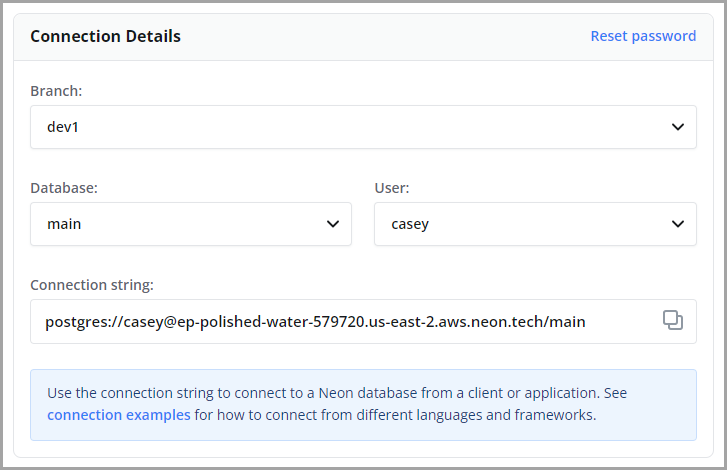
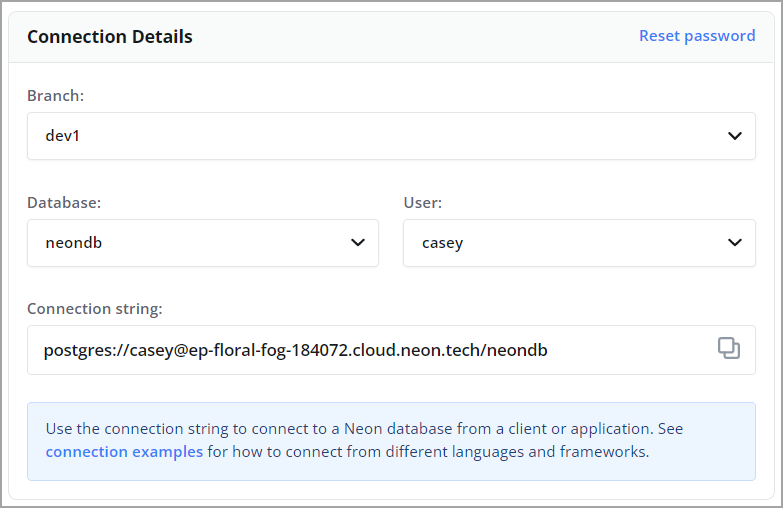
Revisions

diff --git a/content/docs/connect/connect-from-any-app.md b/content/docs/connect/connect-from-any-app.md
@@ -2,7 +2,7 @@
 title: Connect from any application
 enableTableOfContents: true
 ---
-When connecting to Neon from an application or client, you will need to connect to a database in your Neon project. In Neon, a database belongs to a branch, which may the root branch of your project (`main`) or a child branch.
+When connecting to Neon from an application or client, you will need to connect to a database in your Neon project. In Neon, a database belongs to a branch, which may the root branch of your project (`main`) or a child branch. The root branch in a Neon project has a default database named `neondb`.
 
 In order to connect to a database, you must connect to the branch where the database resides, and you must do so by connecting through an endpoint, which is the compute instance associated with the branch.
 
@@ -10,7 +10,7 @@ In order to connect to a database, you must connect to the branch where the data
 Project
     |----root branch (main) ---- endpoint (compute) <--- application/client
              |    |
-             |    |---- database (main)
+             |    |---- database (neondb)
              |
              ---- child branch ---- endpoint (compute) <--- application/client
                             |
@@ -21,16 +21,16 @@ You can obtain the connection details that you require from the **Connection Det
 
 ![Connection details widget](./images/connection_details.png)
 
-A Neon connection string includes the user, the endpoint hostname, and database name.
+A Neon connection string includes the user, the endpoint hostname, and the database name.
 
 ```text
-postgres://casey@ep-polished-water-579720.us-east-2.aws.neon.tech/neondb
-             ^                       ^                              ^
-             |- <user>               |- <endpoint_hostname>         |- <database>
+postgres://casey@ep-square-sea-260584.us-east-2.aws.neon.tech/neondb
+             ^                       ^                          ^
+             |- <user>               |- <endpoint_hostname>     |- <database>
 ```
 
 <Admonition type="note">
-When an application or client requires a PostgreSQL host, it is the endpoint hostname that you should provide. An endpoint hostname, such as the one shown above, is comprised of an `endpoint_id` (`ep-polished-water-579720`), a region slug (`us-east-2`), the cloud platform (`aws`), and the Neon domain (`neon.tech`).
+When an application or client requires a PostgreSQL host, it is the endpoint hostname that you should provide. An endpoint hostname, such as the one shown above, is comprised of an `endpoint_id` (`ep-square-sea-260584`), a region slug (`us-east-2`), the cloud platform (`aws`), and the Neon domain (`neon.tech`).
 </Admonition>
 
 You can use the details from the connection string or the connection string itself to configure a connection. For example, you might place the connection details in an `.env` file,  assign the connection string to a variable, or pass the connection string on the command-line, as shown:
@@ -38,7 +38,7 @@ You can use the details from the connection string or the connection string itse
 `.env` file:
 
 ```text
-PGHOST='ep-polished-water-579720.us-east-2.aws.neon.tech'
+PGHOST='ep-square-sea-260584.us-east-2.aws.neon.tech'
 PGDATABASE='neondb'
 PGUSER='casey'
 PGPASSWORD='<password>'
@@ -48,13 +48,13 @@ PGPORT='5432'
 Variable:
 
 ```text
-DATABASE_URL="postgres://casey:<password>@ep-polished-water-579720.us-east-2.aws.neon.tech:5432/neondb"
+DATABASE_URL="postgres://casey:<password>@ep-square-sea-260584.us-east-2.aws.neon.tech:5432/neondb"
 ```
 
 Command-line:
 
 ```bash
-psql postgres://casey:<password>@ep-polished-water-579720.us-east-2.aws.neon.tech/neondb
+psql postgres://casey:<password>@ep-square-sea-260584.us-east-2.aws.neon.tech/neondb
 ```
 
 <Admonition type="note">
